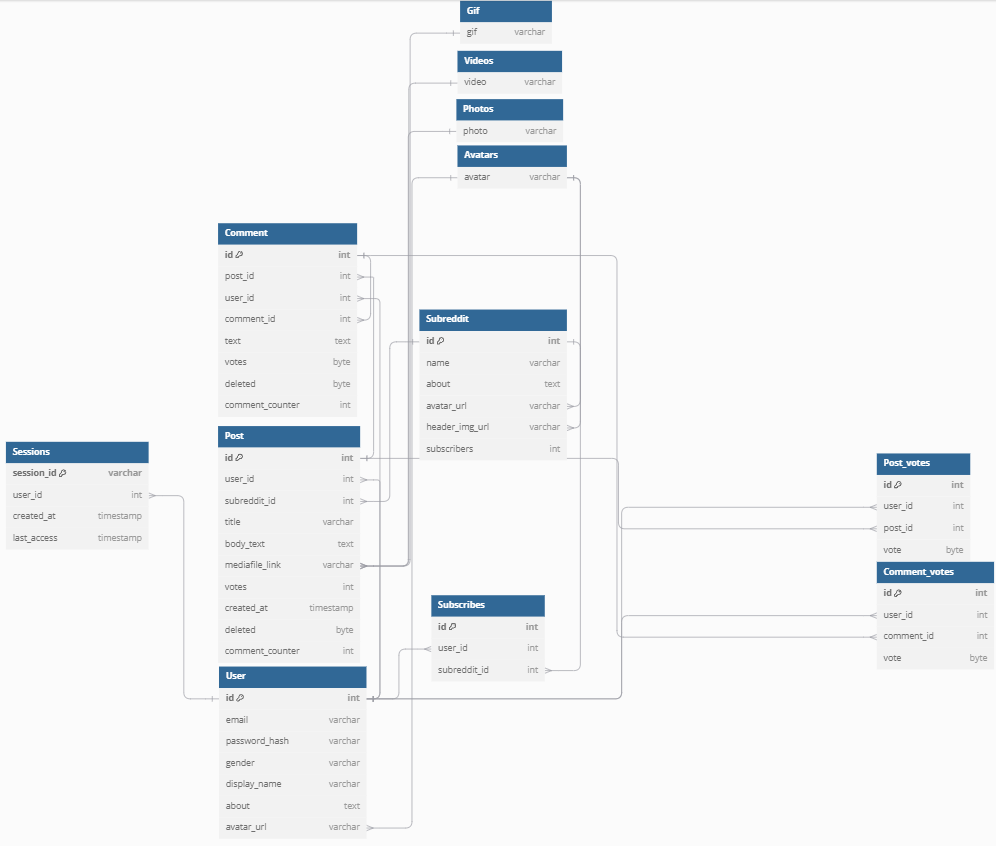
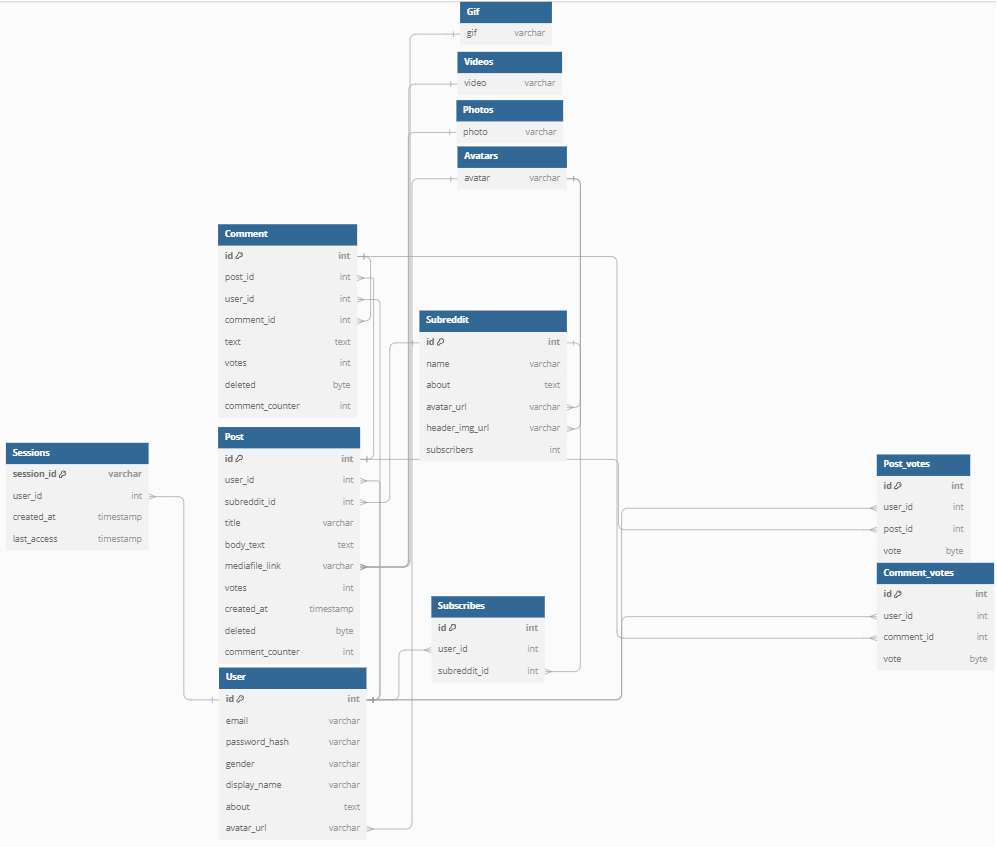
fixes

diff --git a/README.md b/README.md
@@ -147,7 +147,7 @@ MVP функционал:
 
 1. Распределение трафика на группы.
 
-Трафик можно разделить на 2 основные группы: выдача медиа (посты (в том числе фото, видео, gif), комментарии), и остальное. Поскольку Reddit подразумевает в основном выдачу статики (текст, фото, видео), то для жтих целей разумно использовать CDN. Для CDN можно использовать поддомен или отдельный домен, или использовать готовые решения, например, Amazon CloudFront. Для создания постов, комментариев, аккаунтов, подписок CDN не потребуется.
+Трафик можно разделить на 2 основные группы: выдача медиа (посты (в том числе фото, видео, gif), комментарии), и остальное. Поскольку Reddit подразумевает в основном выдачу статики (текст, фото, видео), то для этих целей разумно использовать CDN. Для CDN можно использовать поддомен или отдельный домен, или использовать готовые решения, например, Amazon CloudFront. Для создания постов, комментариев, аккаунтов, подписок CDN не потребуется.
 
 2. Расположение датацентров.
 
@@ -161,6 +161,8 @@ MVP функционал:
 |Австралия  |	500                 |
 |Германия   |	500                 |
 |Остальные  |	1970                |
+
+Исходя из данных таблицы, можно сразу распределить около половины датацентров в США.
 
 США. Расположим датацентры в США с учётом плотности населения:
 
@@ -194,14 +196,14 @@ MVP функционал:
 
 ![alt text](img/Australia.png)
 
-Весь мир.
+Весь мир. Отсальные регионы равномерно покрыты датацентрами.
 
 ![alt text](img/WorldDC.png)
 [Примерная карта датацентров](https://yandex.ru/maps/?ll=38.353354%2C25.216488&mode=usermaps&source=constructorLink&um=constructor%3A6f3f0d5f20e86332fae7f1b4a40f52184158eb986e23d8d44e151d4904ef01a8&z=3)
 
 3. Схема глобальной балансировки.
 
-Для глобальной балансировки помимо уже используемого BGP Anycast предлагаю использовать Geo-Based DNS для стран с наиболее большей аудиторией и Latency-based DNS для отдаленных стран, чтобы обеспечить отказоустойчивость. 
+Для глобальной балансировки помимо уже используемого BGP Anycast предлагаю использовать Geo-Based DNS для стран с наиболее большой аудиторией и Latency-based DNS для отдаленных стран, чтобы обеспечить отказоустойчивость. 
 
 Список источников:
 1. [АЭС США](https://www.google.ru/maps/d/viewer?mid=1umnxGzgI_zQ1PKH4nZzWwtou6OQ&hl=ru&ll=41.805326407227724%2C-76.13027336795477&z=7)
@@ -268,7 +270,7 @@ MVP функционал:
 | Subscribes| (4:id + 4: user_id + 4:subreddit_id)Б = 12 Б | ~2.5e9 | 27,94 ГБ |
 | Subreddit | (4:id + 500:about + name:21 + 256:avatar_url + 256:header_img_url + 4:subscribers)Б = 1041 Б | 10e6 | 0,97 ГБ |
 | Post      | (4:id + 4:user_id + 4:subreddit_id + 300:title + 500:body_text + 256:mediafile_link + 4:votes + 8:created_at + 1:deleted + 4:comment_count)Б | 2.5e9 | 2 514 ГБ |
-| Comment   | (4:id + 4:user_id + 4:post_id + 4:comment_id + 500:text + 1:deleted + 4:comment_count)Б = 516Б | 38e9 | 18 261 ГБ |
+| Comment   | (4:id + 4:user_id + 4:post_id + 4:comment_id + 500:text + 1:deleted + 4:comment_count + 4:votes)Б = 520Б | 38e9 | 18 400 ГБ |
 | Post_votes| (4:id + 4:user_id + 4:post_id + 1:vote)Б = 13Б | 550e9 | 6 659 ГБ |
 | Comment_votes| (4:id + 4:user_id + 4:comment_id + 1:vote)Б = 13Б | 400e9 | 4 843 ГБ |
 | Videos            | 750 КБ  | 2.5e8 | 175 ТБ |
@@ -292,7 +294,7 @@ MVP функционал:
 
 ### 6. Физическая схема БД. <a name="6"></a>
 
-![Схема БД](img/DB_physical.png)
+![Схема БД](img/DB_physical2.png)
 
 Проведенние денормализации.
 Созданы следующие таблицы:
@@ -303,7 +305,18 @@ MVP функционал:
 
 Хранение всей статической информации реализовано при помощи S3 хранилища. Хранение сессий реализовано при помощи tarantool, поскольку является in-memory БД, позволяет обрабатывать запросы с высокой скоростью записи и чтения и имеет возможность восстановиться в отличие от Redis. Требует использования большого количества инстансов.
 Основные сущности (Пользователи, Посты, Комментарии, Сабреддиты) хранятся при помощи Cassandra, поскольку она спроектирована под высокую нагрузку на чтение, имеет соотвествующие встроенные механизмы, такие как шардинг.
-Для хранения Subscribes и Post_votes используется Druid для последующей аналитики для составления рекомендаций.
+Для хранения Subscribes и Post_votes используется Druid для последующей аналитики для составления рекомендаций. 
+
+Druid vs ClickHouse. [1,2]
+1. ClickHouse <b>поддерживает</b> пакетные вставки напрямую, в отличие от Druid.
+2. Druid <b>не поддерживает</b> точечные удаления и обновления данных, в ClickHouse это поддерживают движки Replacing и Сollapsing.
+3. Druid требует поддержки хранение в файловой системе хранилища «глубокого хранения» сегментов.
+4. ClickHouse не требует сервера метаданных. Метаданные копируются на все узлы. Секционированные таблицы можно загружать неравномерно (поддержка весов, выставляемых вручную).
+5. В Druid хранение устроено сегментами, что сложнее в части управления данными чем в ClickHouse.
+6. ClickHouse имеет готовое решение горизонтального масштабирования (линейная масштабируемость - расширяем кластер и получаем большую производительность).
+7. Druid разделяет данные на сегменты по временной оси.
+
+Из перечисленных пунктов можно заключить, что ClickHouse поддерживать будет проще, он более распространён, имеет выгодные в нашем случае преимущества (1, 4, 5, 6). Поэтому было решено использовать именно ClickHouse
 
 Из-за болшого размера таблицы комментариев (~18 ТБ), храннеие её на одном диске невозможно, поскольку используются диски до 18 ТБ, поэтому проводится шардирование по post_id, т.к. комментарии вычитываются пачкой для отдельного поста. 
 
@@ -313,11 +326,11 @@ MVP функционал:
 | Sessions          | User_id               | -                             | Tarantool             | VShard(buckets)   | VShard(replicaset)    |
 | User              | id                    | -                             | Cassandra             | -                 | Master - 2 Slaves     |
 | Subreddit         | id                    | Добавление счётчика subscribers | Cassandra           | -                 | Master - 2 Slaves     |
-| Subscribes        | user_id, subreddit_id | -                             | Druid            | -                 | -                     |
+| Subscribes        | user_id, subreddit_id | -                             | ClickHouse            | -                 | -                     |
 | Post              | user_id, subreddit_id | Дублирование информации об авторе и сабреддите, запрос количества голосов отдельным запросом | Cassandra | - | Master - 2 Slaves |
 | Comment           | post_id               | Дублирование информации о пользователе, внешний счётчик голосования | Cassandra   | post_id, так как таблица слишком большая   | Master - 2 Slaves |
 | Comment_votes     | comment_id            | -                             | Cassandra             | post_id (высокая запись) | -           |
-| Post_votes        | post_id               | -                             | Druid                 | post_id           | -                     |
+| Post_votes        | post_id, user_id      | -                             | ClickHouse            | post_id           | -                     |
 | Post_votes_cnt    | post_id               | -                             | Cassandra             | - (постепенное обновление) | Master - 2 Slaves |
 | Comment_votes_cnt | comment_id            | -                             | Cassandra             | - (постепенное обновление) | Master - 2 Slaves |
 | Subscribers_counter| subreddit_id         | -                             | Cassandra             | - (постепенное обновление) | -            |
@@ -330,25 +343,40 @@ MVP функционал:
 Cassandra: внутренние механизмы (шардирование)
 Tarantool: VShard
 
+Список источников:
+[1. Расшифровка доклада Highload++ 2016 Виктора Тарнавского](https://habr.com/ru/articles/322724/)
+[2. Сравнение открытых OLAP-систем Big Data: ClickHouse, Druid и Pinot](https://habr.com/ru/companies/oleg-bunin/articles/351308/)
+
 ### 7. Алгоритмы. <a name="7"></a>
 
-Алгоритм рекомендаций.
+<b>Алгоритм рекомендаций.</b>
+
 Рекомендации будут формироваться асинхронно для каждого пользователя. Рекомендации формируются при помощи статистики пользователя, то есть тех постов, которые он лайкнул и сабреддитов, на которых происходит активное увеличение аудитории. Для рекомендации планируется использовать NoSQL DB, например, Cassandra. В подборе рекомендованных постов будет задействован ElasticSearch. С его помощью проводится поиск постов, схожих с лайкнутыми пользователем. Также в выборку попадают посты от того же пользователя/сабреддита, посты которого лайкал пользователь, и посты из набирающих популярность сабреддитов, схожими с интересами пользователя. Все подобранные рекомендации записываются в базу и потом запрашиваются при запросе рекомендаций.
 
-Модерация контента.
+<b> Модерация контента.</b>
+
 Для модерации наиболее эффективным для обработки большого количества входных данных являются модели машинного обучения, поскольку добавление черных или белых листов избыточных подход, который требовал бы хранение всех запрещенных или разрешенных слов всех языков, это требовало бы хранения и постоянного чтения, а также обновления. Из-за данных минусов модерация большого количества текстового контента невозможно. Конечно, можно добавить некий первичный черный список слов, который производил бы первоначальную модерацию, но эти ограничения обычно обходятся символами. В случае обработки фотографий потребуется также некое сравнение загружаемой фотографии с фотографиями запрещённых объектов, что сложнее алгоритмически и также содержит минусы модерации текста черными и белыми списками.
+
 Поэтому логичным решением является использование машинного обучения, поскольку распознавание (идентификация, классификация) являются стандартными операциями для данных моделей.
 В случае, если будет принято решение разрабатывать модель самостоятельно, то можно воспользоваться python и фреймоврком PyTorch, загрузить запрещённые данные, обучить модель. Модель сама сформирует запрещённые признаки, после чего её можно использовать для модерации.
+
 Также можно обратиться к компаниям, которые специализируются на подобных заказах, например, data-light. Она предлагает решение задач модерации при помощи ИИ.
+
 Также в любом случае будет контент, который прошёл модерацию нейронной сетью. В этом случае обрабатываются жалобы пользователей, контент проверяется человеком. В случае, если контент дейстивтельно запрещён, он будет удалён модератором, а самими данными можно дообучать модель. Но в этом случае надо избежать переобучения модели, иначе возможна блокировка допустимого контента. В подобном случае можно подать апелляцию на проверку контента человеком.    
 
-Снижение качества для старого или непопулярного контента.
+<b>Снижение качества для старого или непопулярного контента. </b>
+
 Чтобы оптимизировать хранения медиаданных предлагается не только использовать стандартные методы хранения, такие как сжатие, но и ухудшение качества, поскольку эта информация невостребована для большого количества пользователей, а, учитывая предназначение Reddit (это больше про мемы), пользователю не критично сохранение его данных в оригинальном качестве (как если бы это был сервис для условного хранения семейных архивов, где важно качество).
+
 Именно поэтому предлагается медиа в постах в непопулярных сабреддитах или от пользователей, чьи посты не набирают высоких оценок (в данном случае можно воспользоваться статистикой), подвергать ухудшению качества для оптимизации хранения (с учетом того, что большинство контента не является популярным, данный шаг позволит заметно сократить объёмы хранения).
+
 Для непопулярного контента сжатие с ухудшением качества можно реализовать при помощи JPEG для фото и HEVC с высокими параметрами сжатия.
+
 Для популярного - WebP и HEVC с низкими параметрами сжатия.
+
 Для апскейла можно применить нейросети, например, ESRGAN, при этом апскейлинг можно выполнять с использованием облачных вычислений для экономии локальных ресурсов.
 
+Это позволит оптимизировать хранение и повысить скорость загрузки редковыдаваемого контента (который не будет кэшироваться).
 
 ### 8. Технологии. <a name="8"></a>
 
@@ -366,7 +394,7 @@ Tarantool: VShard
 | Docker        | Контейнеризация       | Распространенность, работа в связке с kubernetes  |
 | Grafana-Prometheus    | Мониторинг    | Распространенность, наличие готовых dashboards    |
 | Grafana Loki  | Логирование           | Часть системы Grafana. Loki индексирует не сами логи, а их метаданные, а именно метки. При этом сами логи сжимаются и хранятся в различных объектных хранилищах или в файловой системе.[3] | 
-| Druid         | Статистика            | Столбцовая СУБД, возможность быстрой записи пачками, сжатие данных, поддержка работы с жёсткими дисками, "API разработчика", разделение данных по временной оси (сегменты) [2]|
+| Druid         | Статистика            | Столбцовая СУБД, возможность быстрой записи пачками, сжатие данных, горизонтальное масштабирование из коробки [2]|
 
 
 Список литературы:
@@ -395,6 +423,8 @@ Kubernetes организует управление серверными кла
 
 ### 10. Схема проекта. <a name="10"></a>
 
-В качестве схемы проекта рассмотрена схема типа API-Gateway, поскольку данная схема позволяет использовать несколько запросов в рамках одного обращение. Это позволит разделить сервис на микросервисыдля разделения нагрузки по ним. Например, при запросе поста необходимо сходить в несколько БД, где хранятся сами посты, лайки, комментарии. Если пользователь поставит оценку или запросит комментарии, то запрос опять придётся на этот микросервис, у него будет высокая нагрузка. Поэтому предлагается разделить это на микросервисы. К тому же это добавит отказоустойчивости, так как при сбое в одном микросервисе (например, для комментариев или оценок), пользователи получат деградацию сервиса, а не отказ.
+В качестве схемы проекта рассмотрена схема типа API-Gateway, поскольку данная схема позволяет использовать несколько запросов в рамках одного обращение. Это позволит разделить сервис на микросервисы для разделения нагрузки по ним. Например, при запросе поста необходимо сходить в несколько БД, где хранятся сами посты, лайки, комментарии. Если пользователь поставит оценку или запросит комментарии, то запрос опять придётся на этот микросервис, у него будет высокая нагрузка. Поэтому предлагается разделить это на микросервисы. К тому же это добавит отказоустойчивости, так как при сбое в одном микросервисе (например, для комментариев или оценок), пользователи получат деградацию сервиса, а не отказ.
 
+Также необходимо собирать метрики и логи. Согласно заданию 8 для этого используется S3 хранилище 
 
+![Схема проекта](img/project_scheme.png)
